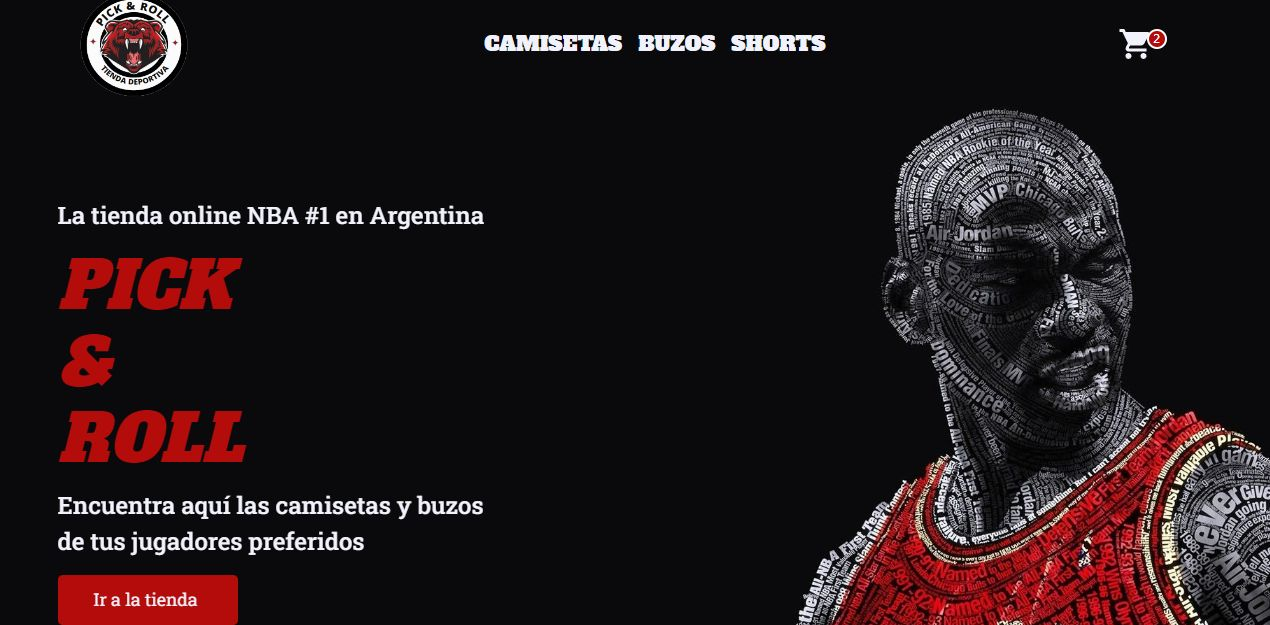
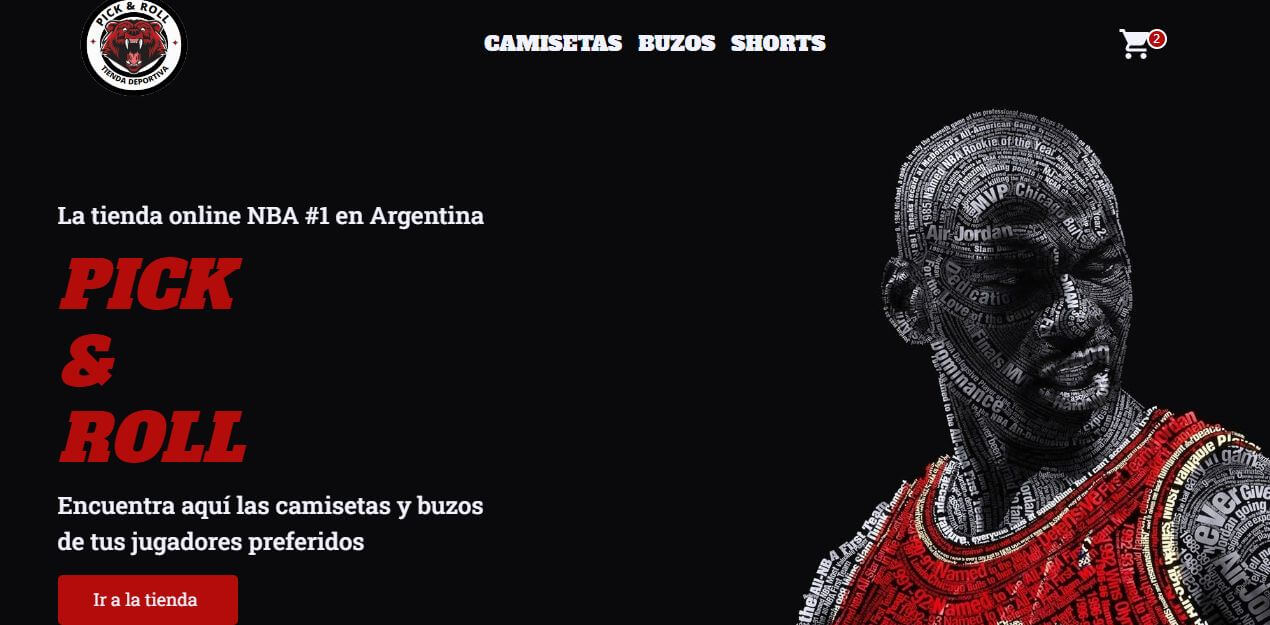
imágenes comprimidas

Changed region(s): [[0.1535, 0.8512, 0.1843, 0.8816]]

diff --git a/src/styles/components/_navbar.scss b/src/styles/components/_navbar.scss
@@ -48,6 +48,8 @@ header {
     align-items: center;
     gap: 30px;
     padding-left: 6rem;
+    margin-top: 3px;
+    margin-bottom: 3px;
 
     .logo_container {
         width: auto;
@@ -119,51 +121,6 @@ header {
 
 /* Media Queries */
 
-/* @media (max-width: 1160px) {
-    .navbar_list {
-        flex-direction: column;
-        align-items: center;
-        text-align: center;
-        
-        li {
-            padding: 4px;
-
-            span {
-                color: $dark;
-            }
-        }
-    }
-
-    .navbar_list-container {
-        background-color: $white;
-        border-radius: 6px;
-        margin-left: 2rem;
-        margin-right: 2rem;
-    }
-
-    nav {
-        z-index: 3!important;
-    }
-} */
-
-/* @media (max-width: 1160px) {
-    .navbar_list-container {
-        width: 100%;
-    }
-
-    .hamburger_menu-container {
-        display: block;
-    }
-
-    .desktop_flags {
-        display: none;
-    }
-
-    .mobile_flags {
-        display: flex;
-    }
-} */
-
 @media (min-width: 1070px) {
     .navbar_list-container {
         width: auto;
@@ -176,8 +133,7 @@ header {
         width: 100%;
         background-color: $white;
         border-radius: 6px;
-        margin-left: 2rem;
-        margin-right: 2rem;
+        margin: 6px 2rem 0 2rem;
 
         .navbar_list {
             flex-direction: column;

diff --git a/src/styles/components/_services.scss b/src/styles/components/_services.scss
@@ -43,6 +43,12 @@
 
 /* Media Queries */
 
+@media (max-width: 1030px) {
+    .services_container .services_item {
+        padding: 20px;
+    }
+}
+
 @media (max-width: 850px) {
     .services_container {
         grid-template-columns: 1fr 1fr;
@@ -51,7 +57,6 @@
 
         .services_item {
             gap: 10px;
-            padding: 20px;
         }
     }
 }

diff --git a/src/styles/components/_contact.scss b/src/styles/components/_contact.scss
@@ -184,7 +184,7 @@
     }
 }
 
-@media (max-width: 800px) {
+@media (max-width: 795px) {
     .form_container .arrow_up {
         right: 5px;
 
@@ -194,7 +194,7 @@
     }
 }
 
-@media (max-width: 600px) {
+@media (max-width: 750px) {
     .contact_icons {
         gap: 5px;
         font-size: 3.5rem;
